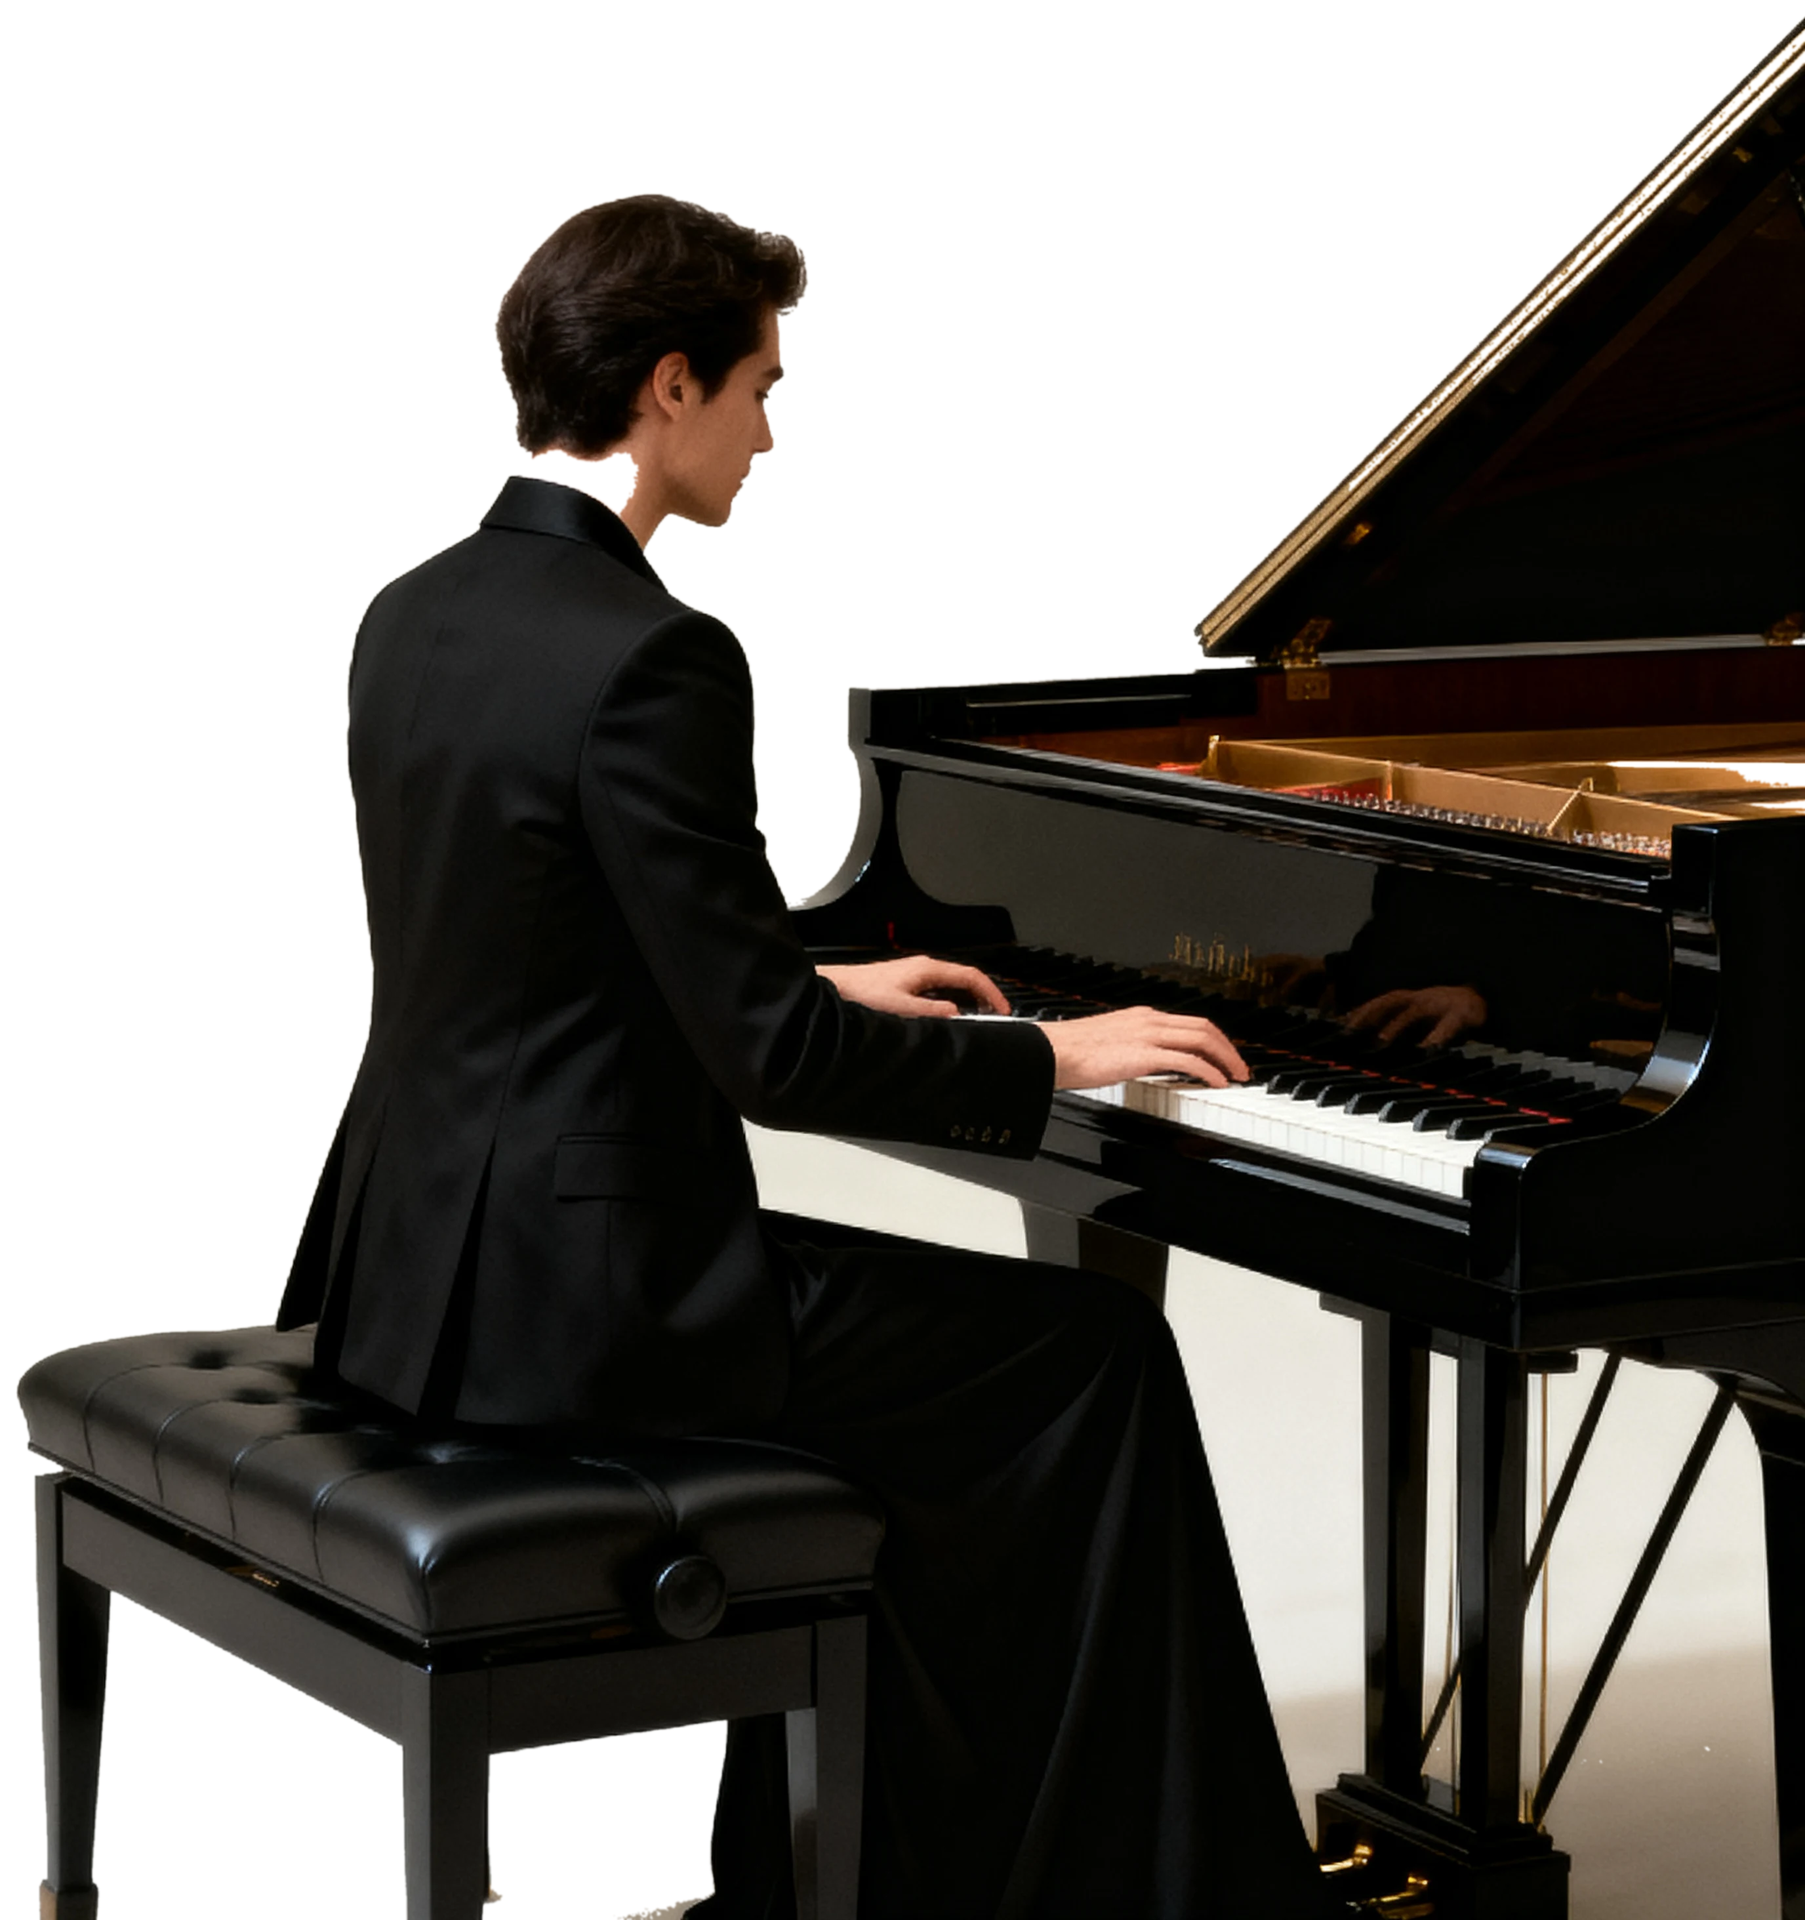
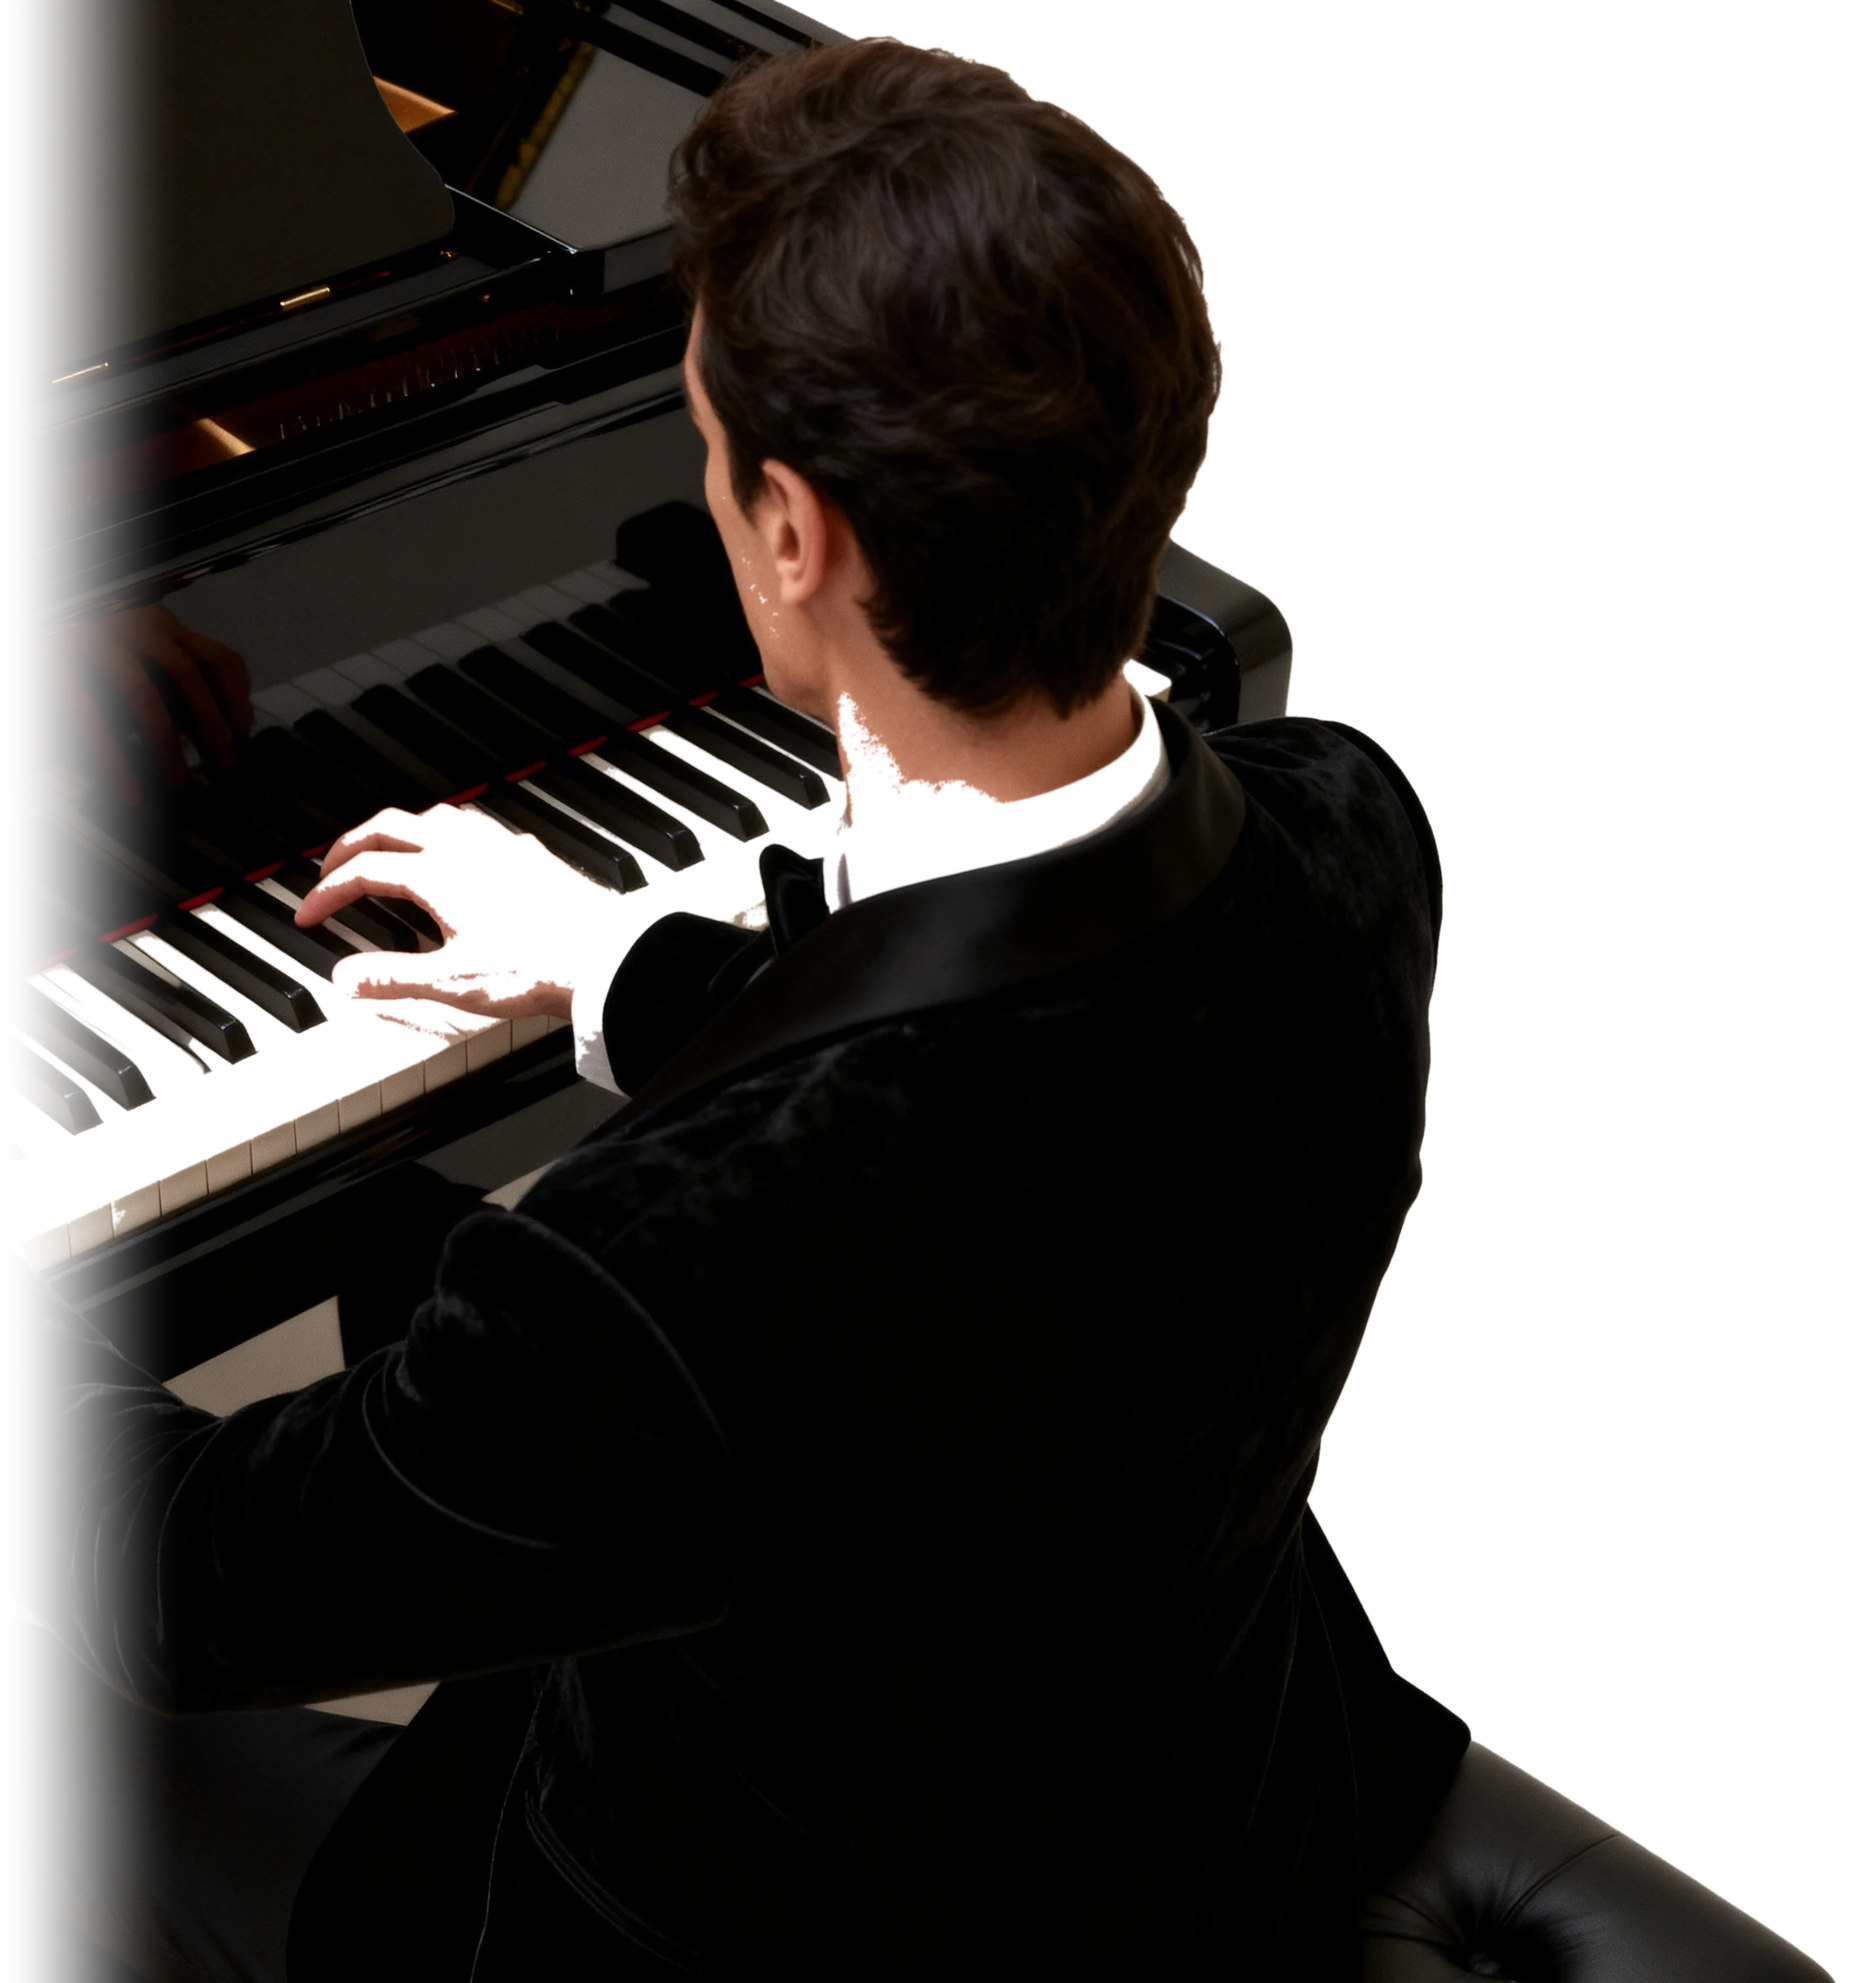
Rework the alternate hero as one scene: keyboard crop, empty centre, pianist
Replaces the previous version, which read as two separate grand pianos with the
text between them. The layout is now literally a cropped keyboard entering from
the left, a large untouched centre holding the type, and a pianist cropped by
the right edge.

Both elements are new: a close-up of a keyboard and its cheek block for the
left, and a pianist playing, shot from behind and above, for the right. Neither
is a whole instrument. Both are cut to real alpha and layered over the hero
rule's own #f6f5f3, so the centre contains no image data -- measured across the
full band between them, 100.000% of it is exactly 246,245,243 before the type
is drawn.

Framing decisions worth recording, none of which alter the photographs:

  - The left plate carried a fragment of gold script on its fallboard, so the
    source is cropped past it. The element is cut off by the page edge anyway,
    so this costs nothing and keeps the brief's no-branding rule.
  - The right plate is mirrored. In the source the keyboard runs off to the
    right of the player, which anchored to the right edge would turn the
    pianist's back to the headline with the instrument behind them. Flipped, the
    figure sits at the edge and the keys run inward, so the two sides read as
    one instrument continuing behind the type.
  - Mirroring puts the keyboard's cut end facing the headline, and the left
    fragment sits clear of the hero's bottom so its keys line up with the
[…]

diff --git a/hero-alt.html b/hero-alt.html
@@ -133,15 +133,16 @@
       height: 100svh;
       padding-top: 80px;
       /* ALTERNATE DIRECTION -- editorial split.
-         Two alpha cutouts frame the frame from the left and the right; neither
+         Two alpha cutouts frame the page from the left and the right; neither
          carries any background with it, so the centre is not an image at all.
          It is this rule's own #f6f5f3, the same value the piano-video section
          uses, which is why there is no rectangle, gradient, seam or colour to
-         match. Both elements are anchored to the outer edges and pushed a
-         little past them so they bleed off rather than sitting in the frame. */
+         match. The left fragment sits clear of the bottom so its keyboard lines
+         up with the pianist's, and both are sized in vh so the whole
+         arrangement holds at any viewport. */
       background:
-        url('images/backgorund-images/hero-alt-pianist.webp') right -6vh bottom -1vh / auto 62vh no-repeat,
-        url('images/backgorund-images/hero-alt-piano.webp')   left  -4vh bottom -1vh / auto 88vh no-repeat,
+        url('images/backgorund-images/hero-alt-pianist.webp') right -1.1vh bottom 0     / auto 60vh no-repeat,
+        url('images/backgorund-images/hero-alt-piano.webp')   left  -6.7vh bottom 19.6vh / auto 40vh no-repeat,
         #f6f5f3;
       display: flex;
       align-items: center;
@@ -176,7 +177,7 @@
          the piano reaches further in from the left than the pianist does from
          the right, so viewport-centred type would sit off to the right of the
          negative space it is meant to occupy. */
-      transform: translateX(-8.5vh);
+      transform: translateX(-4.4vh);
       z-index: 1;
       display: flex;
       flex-direction: column;
@@ -200,7 +201,7 @@
     }
 
     .hero-title {
-      font-size: clamp(56px, calc(12.6vh - 13px), 128px);
+      font-size: clamp(48px, 10.2vh, 118px);
       font-weight: 700;
       color: var(--text);
       letter-spacing: -0.03em;

diff --git a/scripts/build_hero_alt.py b/scripts/build_hero_alt.py
@@ -12,7 +12,9 @@ background, which means there is no rectangle, no gradient, no seam and nothing
 to colour match. The centre is literally untouched page.
 
 The subjects themselves are used exactly as generated: nothing is redrawn,
-retouched or recoloured, only separated from the ground they were shot on.
+retouched or recoloured. What happens here is framing and separation only --
+cropping, one horizontal flip, and dissolves on the edges the camera's own
+frame cut through.
 """
 import os
 
@@ -26,14 +28,27 @@ SRC_DIR = "images/backgorund-images"
 # texture; the sweep sits near 1.2, the instrument's interior at 5 and above.
 SMOOTH_MAX = 2.5
 
-# (source, output, which half the subject occupies, flood threshold)
+# (source, output, side, flood threshold, source crop, mirror, inner drop)
+# The source crop runs before anything else and is pure framing: it drops
+# columns at the outer edge, which the element is cut off by anyway. It is used
+# to lose a fragment of gold lettering on the left plate's fallboard, since the
+# brief rules out branding in this photography.
 JOBS = [
-    ("alt-left-a.jpg",  "hero-alt-piano.webp",   "left",  120),
-    ("alt-right-b.jpg", "hero-alt-pianist.webp", "right", 150),
+    ("kb-left-a.jpg",   "hero-alt-piano.webp",   "left",  120, (210, 0, None, None), False, 0.0),
+    # Mirrored: in the source the keyboard runs off to the RIGHT of the player,
+    # so anchored to the right edge it would turn the pianist's back to the
+    # headline with the instrument behind them. Flipped, the figure sits at the
+    # edge and the keys run inward, which is what lets the two sides read as one
+    # instrument continuing behind the type. A flip, not a retouch: nothing in
+    # the photograph is altered.
+    # `inner drop` sheds the far end of the keyboard once mirrored. Without it the
+    # element is mostly keys, and scaling it to leave a large centre would push
+    # the figure almost entirely off the page.
+    ("pi-right-f.jpg",  "hero-alt-pianist.webp", "right", 150, None, True, 0.32),
 ]
 
 
-def cutout(src, thr):
+def cutout(src, thr, crop):
     """Background -> transparent.
 
     A plain threshold would punch holes in the subject wherever it is bright --
@@ -50,6 +65,9 @@ def cutout(src, thr):
     from the plate behind the strings.
     """
     im = Image.open(os.path.join(SRC_DIR, src)).convert("RGB")
+    if crop:
+        l, t, r, b = crop
+        im = im.crop((l or 0, t or 0, r or im.width, b or im.height))
     lum = np.asarray(im.convert("L"), dtype=np.float64)
     light = lum > thr
     lbl, n = nd.label(light)
@@ -76,23 +94,30 @@ def cutout(src, thr):
 
 
 def trim(img, half, pad=24):
-    """Crop to the subject, ignoring anything in the opposite half.
+    """Crop to the subject.
 
-    Both plates carry a faint duplicate of the subject near the far edge; the
-    half restriction drops it instead of letting it stretch the bounding box.
+    The bounding box comes from the largest connected opaque region, not from
+    every opaque pixel: both plates carry a faint duplicate of the subject near
+    the far edge, and a naive box would stretch to include it. Taking the
+    largest component ignores those without assuming which half the subject
+    happens to occupy -- an earlier version restricted the box to the outer half
+    and sliced straight through the pianist's head.
+
+    The edge the subject runs off is kept flush so it still bleeds off the page.
     """
     a = np.asarray(img)[:, :, 3]
     h, w = a.shape
-    solid = a > 40
-    if half == "left":
-        solid[:, w // 2:] = False
+    lbl, n = nd.label(a > 40)
+    if n:
+        sizes = nd.sum(np.ones_like(lbl), lbl, range(1, n + 1))
+        keep = int(np.argmax(sizes)) + 1
+        solid = lbl == keep
     else:
-        solid[:, :w // 2] = False
+        solid = a > 40
     cols = np.where(solid.any(axis=0))[0]
     rows = np.where(solid.any(axis=1))[0]
     x0, x1 = max(cols.min() - pad, 0), min(cols.max() + pad + 1, w)
     y0, y1 = max(rows.min() - pad, 0), min(rows.max() + pad + 1, h)
-    # keep the edge the subject runs off flush, so it still bleeds off the page
     if half == "left":
         x0 = 0
     else:
@@ -100,8 +125,53 @@ def trim(img, half, pad=24):
     return img.crop((x0, y0, x1, y1))
 
 
-for src, dst, half, thr in JOBS:
-    img = trim(cutout(src, thr), half)
+def fade_bottom(img, frac=0.14):
+    """Dissolve the element's lower edge into the page.
+
+    The left fragment sits clear of the hero's bottom so its keyboard lines up
+    with the pianist's, which leaves the crop its own frame made across the keys
+    hanging in the middle of the page. Ramping it out avoids that hard line.
+    """
+    a = np.asarray(img).copy()
+    h = a.shape[0]
+    n = max(int(h * frac), 1)
+    t = np.linspace(1.0, 0.0, n)
+    ramp = t * t * (3 - 2 * t)
+    a[h - n:, :, 3] = (a[h - n:, :, 3] * ramp[:, None]).astype(np.uint8)
+    return Image.fromarray(a)
+
+
+def fade_inner_edge(img, side, frac=0.10):
+    """Dissolve the edge where the instrument was cut by its own frame.
+
+    Mirroring puts the pianist's keyboard end -- which ran off the source's
+    frame -- facing the headline. Left as-is that is a hard vertical slice
+    through the keys. Ramping the alpha out over the last stretch lets it fade
+    into the page instead, the same dissolve the main hero uses at its bottom.
+    """
+    a = np.asarray(img).copy()
+    w = a.shape[1]
+    n = max(int(w * frac), 1)
+    t = np.linspace(0.0, 1.0, n)
+    ramp = (t * t * (3 - 2 * t))
+    if side == "right":            # element sits at the right; inner edge is its left
+        a[:, :n, 3] = (a[:, :n, 3] * ramp[None, :]).astype(np.uint8)
+    else:
+        a[:, w - n:, 3] = (a[:, w - n:, 3] * ramp[::-1][None, :]).astype(np.uint8)
+    return Image.fromarray(a)
+
+
+for src, dst, half, thr, crop, mirror, inner_drop in JOBS:
+    img = trim(cutout(src, thr, crop), half)
+    if mirror:
+        img = img.transpose(Image.FLIP_LEFT_RIGHT)
+    if inner_drop:
+        n = int(img.width * inner_drop)
+        img = img.crop((n, 0, img.width, img.height)) if half == "right"             else img.crop((0, 0, img.width - n, img.height))
+    if mirror or inner_drop:
+        img = fade_inner_edge(img, half)
+    if half == "left":
+        img = fade_bottom(img)
     path = os.path.join(SRC_DIR, dst)
     img.save(path, quality=88, method=6)   # WebP keeps the alpha at a tenth of PNG
     a = np.asarray(img)[:, :, 3]
